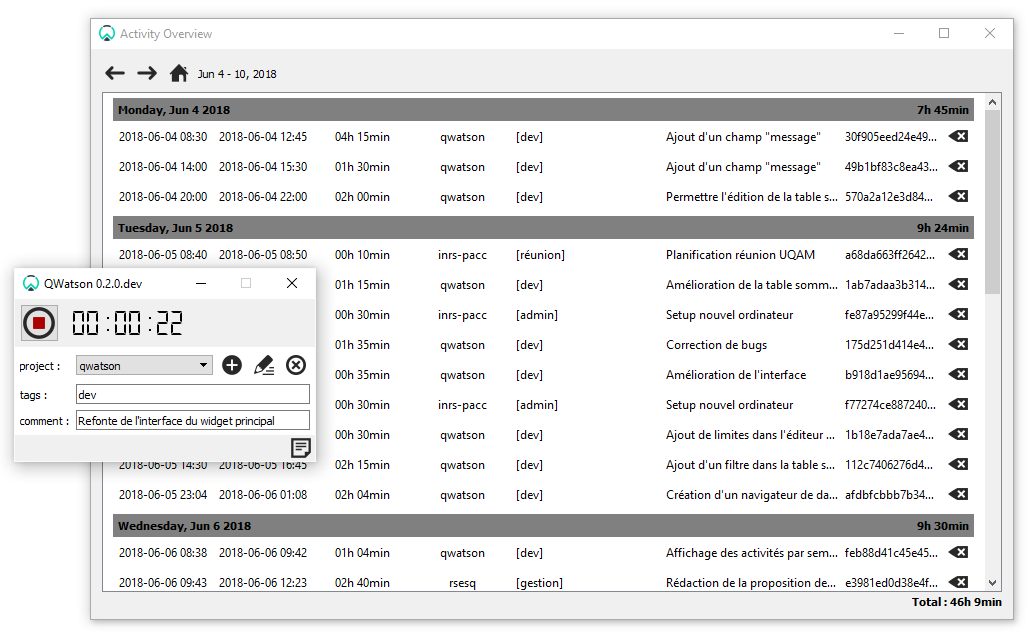
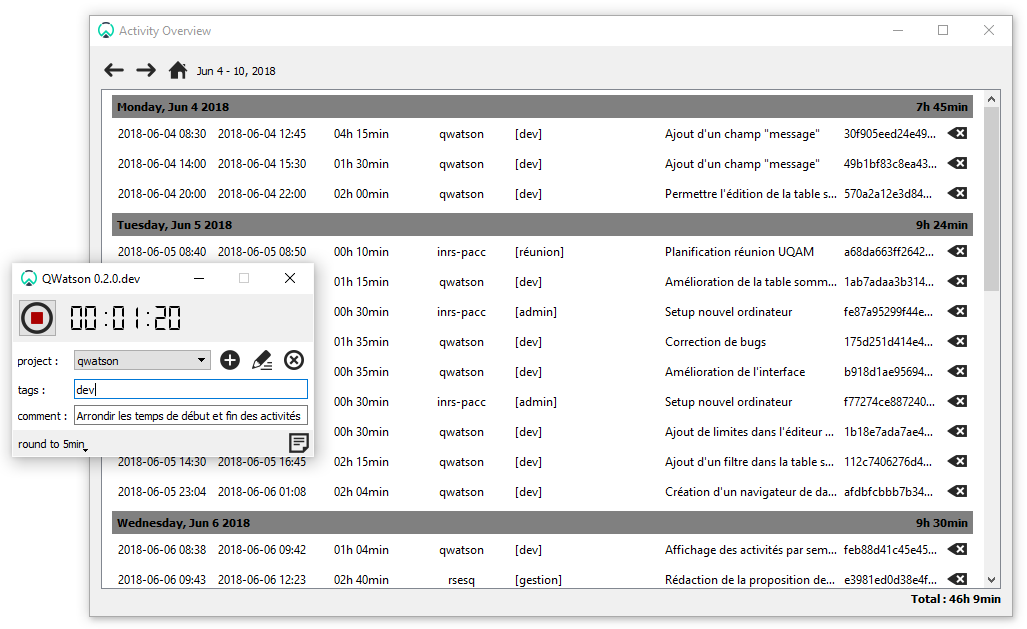
PR: Add an option to round Start and Stop times to 1min, 5min, or 10min (#22)
* Create a DropDownToolButton

A QToolButton with QComboBox dropdown-like capability

* Include a new widget to select round off time

* Improve tooltip rendering

* Fix a mouse hover bug when mouse clicking

* Add a method to round arrow dates

* Add a test

* Add a docstring to a function

* Add an utility function to round watson frame

* Round frame in QWatson

* make round_minutes dict a module global

* Remove print statement

* Update the application printscreen

diff --git a/qwatson/widgets/toolbar.py b/qwatson/widgets/toolbar.py
@@ -14,7 +14,8 @@ import sys
 
 from PyQt5.QtCore import pyqtSignal as QSignal
 from PyQt5.QtCore import QSize, Qt, QEvent
-from PyQt5.QtWidgets import QApplication, QGridLayout, QToolButton, QWidget
+from PyQt5.QtWidgets import (QApplication, QGridLayout, QToolButton, QWidget,
+                             QMenu, QListWidget, QStyle, QSizePolicy)
 
 # ---- Local imports
 
@@ -41,12 +42,14 @@ class ToolBarWidget(QWidget):
 
 
 class QToolButtonBase(QToolButton):
-    def __init__(self, icon, *args, **kargs):
-        super(QToolButtonBase, self).__init__(*args, **kargs)
-        icon = icons.get_icon(icon) if isinstance(icon, str) else icon
-        self.setIcon(icon)
+    def __init__(self, icon=None, iconsize='normal', parent=None):
+        super(QToolButtonBase, self).__init__(parent)
         self.setAutoRaise(True)
         self.setFocusPolicy(Qt.NoFocus)
+        if icon is not None:
+            icon = icons.get_icon(icon) if isinstance(icon, str) else icon
+            self.setIcon(icon)
+            self.setIconSize(icons.get_iconsize(iconsize))
 
 
 class QToolButtonNormal(QToolButtonBase):
@@ -71,14 +74,12 @@ class OnOffToolButton(QToolButtonBase):
     """A tool button that can be toggled on or off by clicking on it."""
     sig_value_changed = QSignal(bool)
 
-    def __init__(self, icon, icon_raised=None, size=None, parent=None):
+    def __init__(self, icon, icon_raised=None, size='normal', parent=None):
         self._icon = icons.get_icon(icon) if isinstance(icon, str) else icon
         self._icon_raised = (icons.get_icon(icon_raised) if
                              isinstance(icon_raised, str) else icon_raised)
-        super(OnOffToolButton, self).__init__(self._icon, parent)
+        super(OnOffToolButton, self).__init__(self._icon, size, parent)
         self.installEventFilter(self)
-        if size is not None:
-            self.setIconSize(icons.get_iconsize(size))
 
     def eventFilter(self, widget, event):
         if event.type() == QEvent.MouseButtonPress and self.isEnabled():
@@ -104,16 +105,134 @@ class OnOffToolButton(QToolButtonBase):
         self.setIcon(icon)
 
 
+class DropDownToolButton(QToolButtonBase):
+    """A QToolButton with QComboBox dropdown-like capability."""
+    sig_item_selected = QSignal(str)
+
+    def __init__(self, icon=None, iconsize='normal', style='icon_only',
+                 parent=None):
+        super(DropDownToolButton, self).__init__(icon, iconsize, parent)
+        self.set_style(style)
+
+        # Set an empty menu to show the drowdown arrow.
+        self.setMenu(QMenu())
+
+        self.droplist = DropDownList(self)
+        self.clicked.connect(self.show_dropdown)
+        self.droplist.sig_item_selected.connect(self.new_item_selected)
+
+    def set_style(self, style):
+        """Set whether text is shown next to the icon or not."""
+        self.setToolButtonStyle(
+            {'icon_only': Qt.ToolButtonIconOnly,
+             'text_only': Qt.ToolButtonTextOnly,
+             'text_beside': Qt.ToolButtonTextBesideIcon,
+             'text_under': Qt.ToolButtonTextUnderIcon}[style])
+
+    def addItems(self, items):
+        """Clear and add items to the button dropdown list."""
+        self.droplist.clear()
+        self.droplist.addItems(items)
+        self.setCurrentIndex(0)
+
+    def setCurrentIndex(self, index):
+        self.droplist.setCurrentRow(index)
+        current_item = self.droplist.currentItem()
+        if current_item is not None:
+            self.setText(current_item.text())
+
+    def show_dropdown(self):
+        """Show and set focus on the dropdown list."""
+        self.droplist.show()
+        self.droplist.setFocus()
+
+    def new_item_selected(self, text):
+        """handle when a new item is selected"""
+        self.setText(text)
+        self.sig_item_selected.emit(text)
+
+
+class DropDownList(QListWidget):
+    sig_item_selected = QSignal(str)
+
+    def __init__(self, parent):
+        super(DropDownList, self).__init__(parent)
+        self.setWindowFlags(Qt.FramelessWindowHint | Qt.Window)
+        self.hide()
+        self.itemClicked.connect(self.item_is_clicked)
+
+    def show(self):
+        """
+        Qt method override to show the dropdown list under its parent,
+        aligned to its left edge.
+        """
+        point = self.parent().rect().bottomLeft()
+        global_point = self.parent().mapToGlobal(point)
+        global_point.setY(global_point.y() + 1)
+        self.move(global_point)
+        self.resizeColumnsToContents()
+        self.resizeHeightToContent()
+        super(DropDownList, self).show()
+
+    def resizeColumnsToContents(self):
+        """Adjust the width of the list to its content."""
+        h = self.sizeHintForColumn(0) + 2*self.frameWidth()
+        if self.verticalScrollBar().isVisible():
+            h = h + QApplication.style().pixelMetric(QStyle.PM_ScrollBarExtent)
+        self.setFixedWidth(h)
+
+    def resizeHeightToContent(self):
+        """Set the height of the widget to fit the content."""
+        h = 2 * self.frameWidth()
+        for i in range(self.count()):
+            h += self.sizeHintForRow(i)
+        self.setFixedHeight(h)
+
+    def item_is_clicked(self, item):
+        """Handle when an item is clicked with the mouse."""
+        self.sig_item_selected.emit(self.currentItem().text())
+        self.hide()
+
+    def keyPressEvent(self, event):
+        """
+        Qt method override to select the highlighted item and hide the list
+        if the Enter key is pressed.
+        """
+        super(DropDownList, self).keyPressEvent(event)
+        if event.key() == Qt.Key_Return:
+            self.sig_item_selected.emit(self.currentItem().text())
+            self.hide()
+
+    def focusOutEvent(self, event):
+        """Qt method override to hide the list when focus is lost."""
+        event.ignore()
+        # Don't hide it on Mac when main window loses focus because
+        # keyboard input is lost
+        if sys.platform == "darwin":
+            if event.reason() != Qt.ActiveWindowFocusReason:
+                self.hide()
+        else:
+            self.hide()
+
+
 # %% if __name__ == '__main__'
 
 if __name__ == '__main__':
     app = QApplication(sys.argv)
 
-    onoff_button = OnOffToolButton('play', 'stop')
+    drop_down_btn = DropDownToolButton(style=('text_beside'))
+    drop_down_btn.setSizePolicy(
+        QSizePolicy(QSizePolicy.Expanding, QSizePolicy.Preferred))
+    drop_down_btn.addItems(['round to 1min',
+                            'round to 5min',
+                            'round to 10min'])
+
+    onoff_button = OnOffToolButton('process_start', 'process_stop')
     onoff_button.setIconSize(icons.get_iconsize('normal'))
 
     toolbar = ToolBarWidget()
     toolbar.addWidget(onoff_button)
+    toolbar.addWidget(drop_down_btn)
     toolbar.show()
 
     sys.exit(app.exec_())

diff --git a/qwatson/mainwindow.py b/qwatson/mainwindow.py
@@ -15,20 +15,24 @@ import os.path as osp
 # ---- Third parties imports
 
 from PyQt5.QtCore import (Qt, QModelIndex)
-from PyQt5.QtWidgets import (QApplication, QGridLayout, QWidget)
+from PyQt5.QtWidgets import (QApplication, QGridLayout, QSizePolicy, QWidget)
 
 # ---- Local imports
 
 from qwatson.watson.watson import Watson
 from qwatson.utils import icons
+from qwatson.utils.dates import round_watson_frame
 from qwatson.widgets.clock import ElapsedTimeLCDNumber
 from qwatson.widgets.dates import DateRangeNavigator
 from qwatson.widgets.tableviews import WatsonDailyTableWidget
-from qwatson.widgets.toolbar import OnOffToolButton, QToolButtonSmall
+from qwatson.widgets.toolbar import (
+    OnOffToolButton, QToolButtonSmall, DropDownToolButton)
 from qwatson import __namever__
 from qwatson.models.tablemodels import WatsonTableModel
 from qwatson.views.activitydialog import ActivityInputDialog
 from qwatson.widgets.layout import ColoredFrame
+
+ROUNDMIN = {'round to 1min': 1, 'round to 5min': 5, 'round to 10min': 10}
 
 
 class QWatson(QWidget):
@@ -136,7 +140,19 @@ class QWatson(QWidget):
         """Setup the toolbar located at the bottom of the main widget."""
         self.btn_report = QToolButtonSmall('note')
         self.btn_report.clicked.connect(self.overview_widg.show)
-        self.btn_report.setToolTip("Open the activity overview window")
+        self.btn_report.setToolTip(
+            "<b>Activity Overview</b><br><br>"
+            "Open the activity overview window.")
+
+        self.round_time_btn = DropDownToolButton(style='text_only')
+        self.round_time_btn.setSizePolicy(
+            QSizePolicy(QSizePolicy.Expanding, QSizePolicy.Preferred))
+        self.round_time_btn.addItems(list(ROUNDMIN.keys()))
+        self.round_time_btn.setCurrentIndex(1)
+        self.round_time_btn.setToolTip(
+            "<b>Round Start and Stop</b><br><br>"
+            "Round start and stop times to the nearest"
+            " multiple of the selected factor.")
 
         # Setup the layout of the statusbar
 
@@ -145,6 +161,7 @@ class QWatson(QWidget):
 
         layout = QGridLayout(statusbar)
         layout.setContentsMargins(0, 0, 0, 0)
+        layout.addWidget(self.round_time_btn, 0, 0)
         layout.addWidget(self.btn_report, 0, 2)
         layout.setColumnStretch(1, 100)
 
@@ -202,6 +219,11 @@ class QWatson(QWidget):
         self.model.beginInsertRows(
             QModelIndex(), len(self.client.frames), len(self.client.frames))
         self.client.stop()
+
+        # Round the start and stop times of the last added frame.
+        self.client.frames[-1] = round_watson_frame(
+            self.client.frames[-1], ROUNDMIN[self.round_time_btn.text()])
+
         self.client.save()
         self.model.endInsertRows()
 

diff --git a/qwatson/utils/tests/test_utils_dates.py b/qwatson/utils/tests/test_utils_dates.py
@@ -1,0 +1,54 @@
+# -*- coding: utf-8 -*-
+
+# Copyright © 2018 Jean-Sébastien Gosselin
+# https://github.com/jnsebgosselin/qwatson
+#
+# This file is part of QWatson.
+# Licensed under the terms of the GNU General Public License.
+
+# ---- Standard imports
+
+import os
+from datetime import datetime
+
+# ---- Third party imports
+
+import pytest
+import arrow
+
+# ---- Local imports
+
+from qwatson.utils.dates import round_arrow_to
+
+
+def test_round_arrow_to():
+    """
+    Assert that the function to round times to the nearest values of
+    a given minutes integer is working properly.
+    """
+    fmt = 'YYYY-MM-DD HH:mm:ss'
+
+    arr1 = arrow.get(datetime(2018, 6, 14, 23, 59, 45))
+    assert arr1.format(fmt) == "2018-06-14 23:59:45"
+    assert round_arrow_to(arr1, 1).format(fmt) == "2018-06-15 00:00:00"
+    assert round_arrow_to(arr1, 5).format(fmt) == "2018-06-15 00:00:00"
+    assert round_arrow_to(arr1, 10).format(fmt) == "2018-06-15 00:00:00"
+    assert round_arrow_to(arr1, 30).format(fmt) == "2018-06-15 00:00:00"
+
+    arr2 = arrow.get(datetime(2018, 6, 14, 0, 6, 15))
+    assert arr2.format(fmt) == "2018-06-14 00:06:15"
+    assert round_arrow_to(arr2, 1).format(fmt) == "2018-06-14 00:06:00"
+    assert round_arrow_to(arr2, 5).format(fmt) == "2018-06-14 00:05:00"
+    assert round_arrow_to(arr2, 10).format(fmt) == "2018-06-14 00:10:00"
+    assert round_arrow_to(arr2, 30).format(fmt) == "2018-06-14 00:00:00"
+
+    arr3 = arrow.get(datetime(2018, 6, 14, 4, 23, 58))
+    assert arr3.format(fmt) == "2018-06-14 04:23:58"
+    assert round_arrow_to(arr3, 1).format(fmt) == "2018-06-14 04:24:00"
+    assert round_arrow_to(arr3, 5).format(fmt) == "2018-06-14 04:25:00"
+    assert round_arrow_to(arr3, 10).format(fmt) == "2018-06-14 04:20:00"
+    assert round_arrow_to(arr3, 30).format(fmt) == "2018-06-14 04:30:00"
+
+
+if __name__ == "__main__":
+    pytest.main(['-x', os.path.basename(__file__), '-v', '-rw'])

diff --git a/qwatson/utils/dates.py b/qwatson/utils/dates.py
@@ -9,6 +9,7 @@
 # ---- Imports: standard libraries
 
 from time import strptime
+import dateutil
 
 # ---- Imports: third parties
 
@@ -61,3 +62,49 @@ def arrowspan_to_str(span):
             start.day, start.year)
 
     return date_range_text
+
+
+def round_arrow_to(arrow, base):
+    """
+    Round a time arrow to the nearest multiple of the specified base in
+    minutes.
+    """
+    deltat = arrow - arrow.floor('hour')
+    total_seconds = deltat.total_seconds()
+    multiple, residual = divmod(total_seconds, base*60)
+    if residual/60 >= base/2:
+        multiple += 1
+    rounded_arrow = arrow.floor('hour').shift(minutes=multiple*base)
+
+    return rounded_arrow
+
+
+def round_watson_frame(frame, base):
+    """Round the start and stop time of a Watson frame."""
+    datetime_format = '{} {}'.format('YYYY-MM-DD', 'HH:mm:ss')
+
+    start = frame.start.format(datetime_format)
+    start = arrow.get(start, datetime_format).replace(
+        tzinfo=dateutil.tz.tzlocal()).to('utc')
+    start = round_arrow_to(start, base)
+
+    stop = frame.stop.format(datetime_format)
+    stop = arrow.get(stop, datetime_format).replace(
+        tzinfo=dateutil.tz.tzlocal()).to('utc')
+    stop = round_arrow_to(stop, base)
+
+    updated_at = arrow.utcnow().format(datetime_format)
+
+    return [frame.project, start, stop, frame.tags,
+            frame.id, updated_at, frame.message]
+
+
+if __name__ == '__main__':
+    from datetime import datetime
+    datetime_fmt = 'YYYY-MM-DD HH:mm:ss'
+    arr1 = arrow.get(datetime(2018, 6, 14, 23, 57, 45))
+    print(arr1.format(datetime_fmt))
+    print(round_arrow_to(arr1, 1).format(datetime_fmt))
+    print(round_arrow_to(arr1, 5).format(datetime_fmt))
+    print(round_arrow_to(arr1, 10).format(datetime_fmt))
+    print(round_arrow_to(arr1, 30).format(datetime_fmt))
